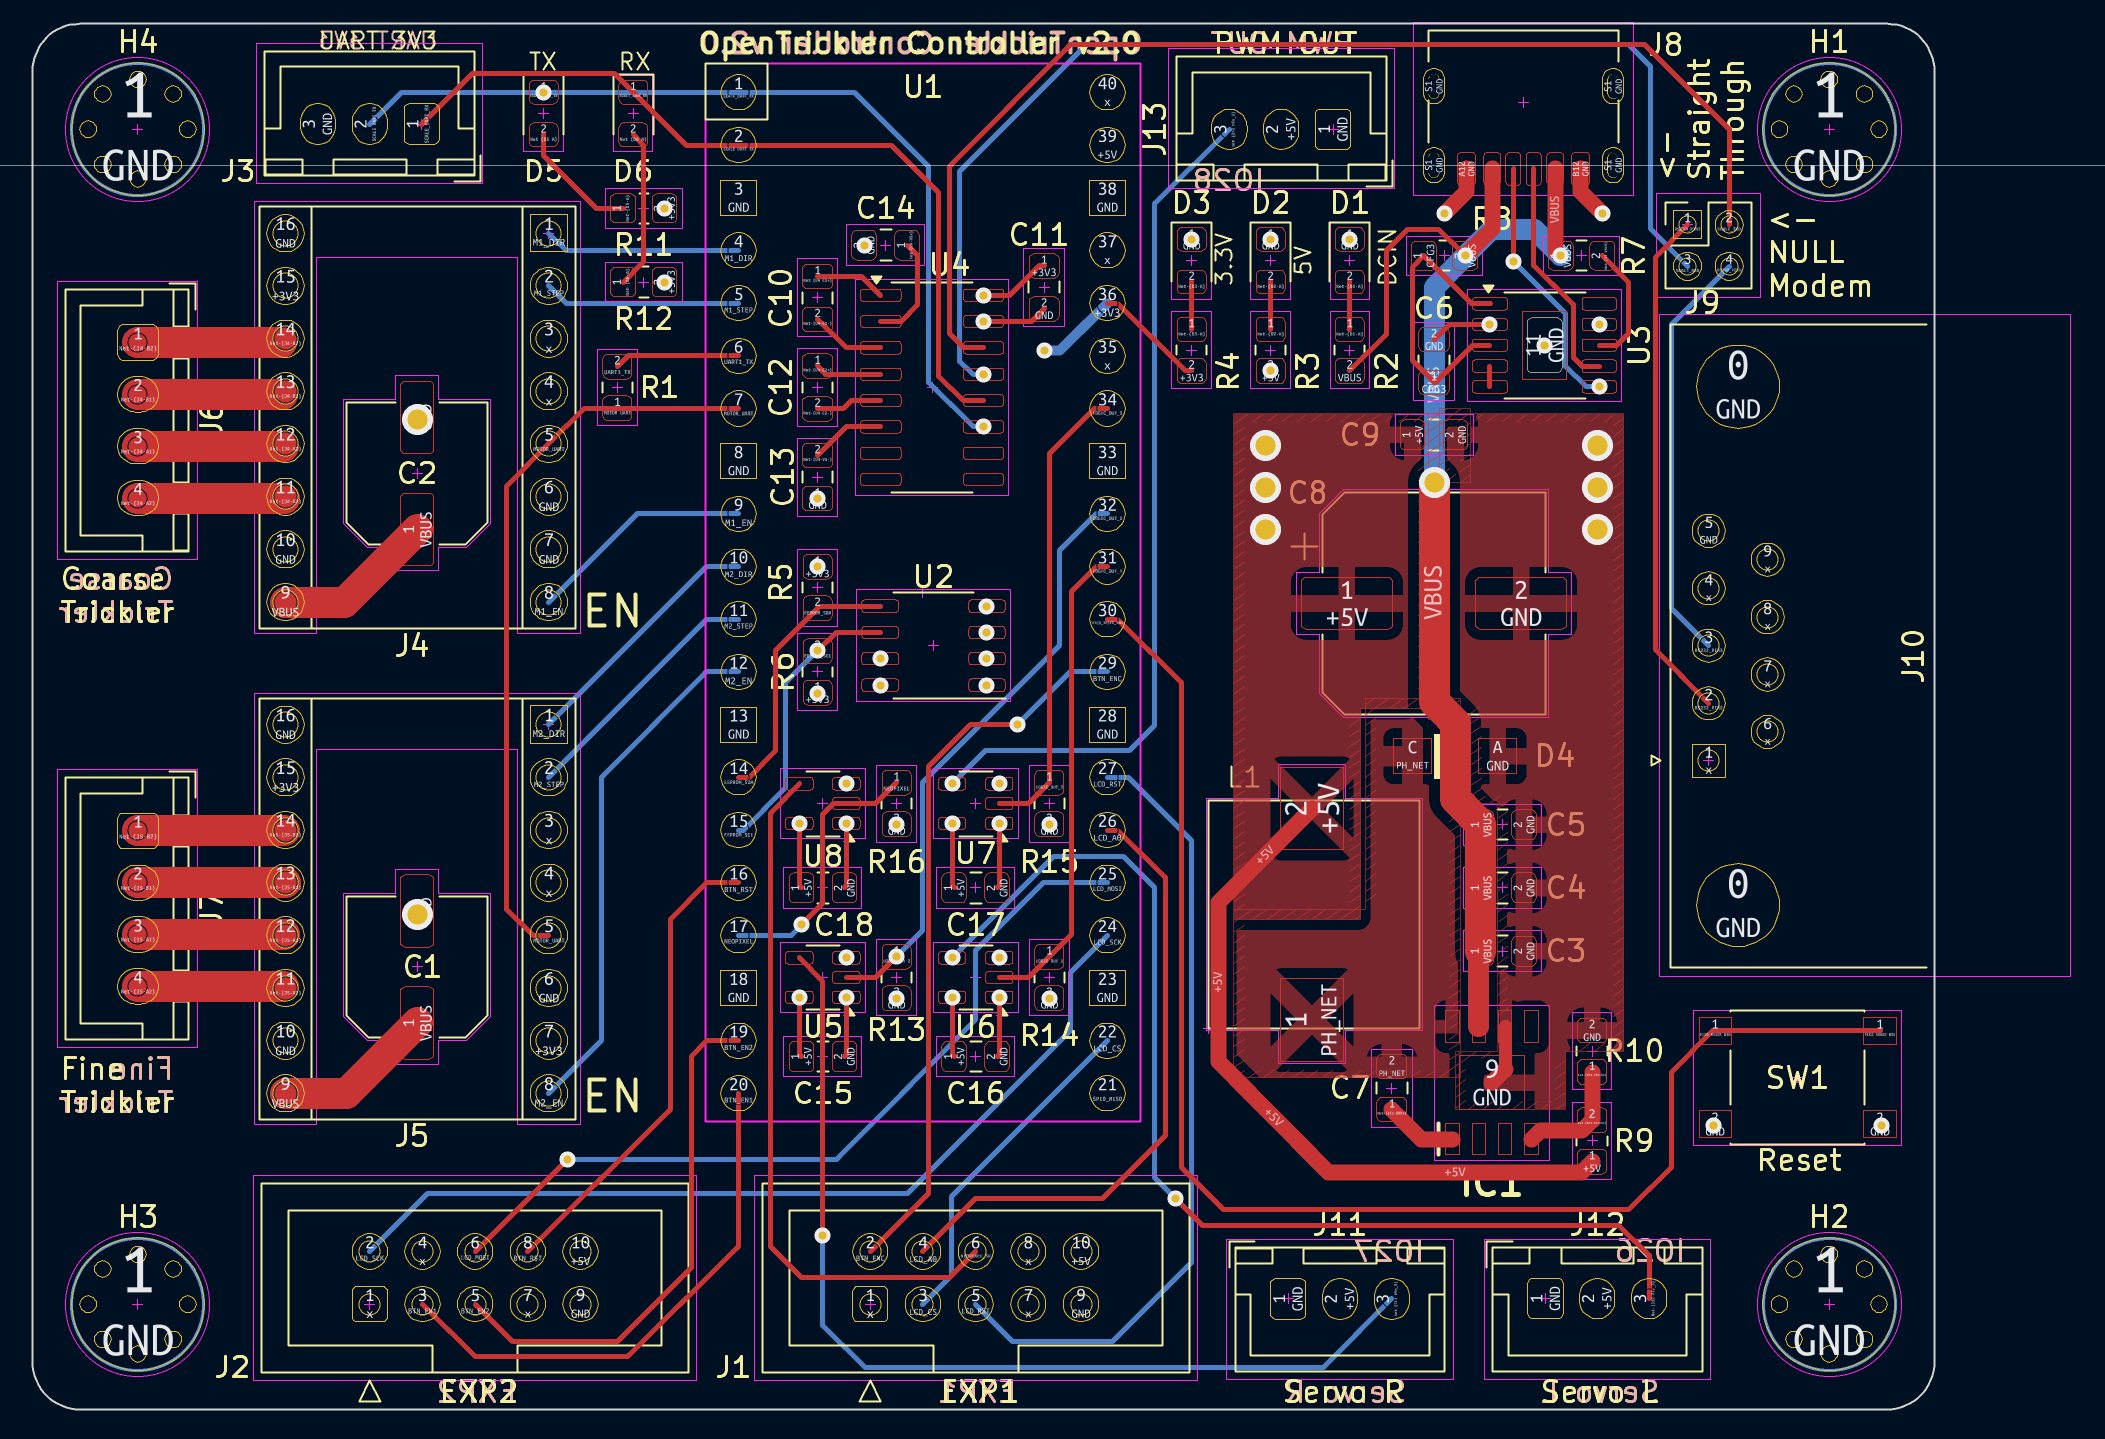
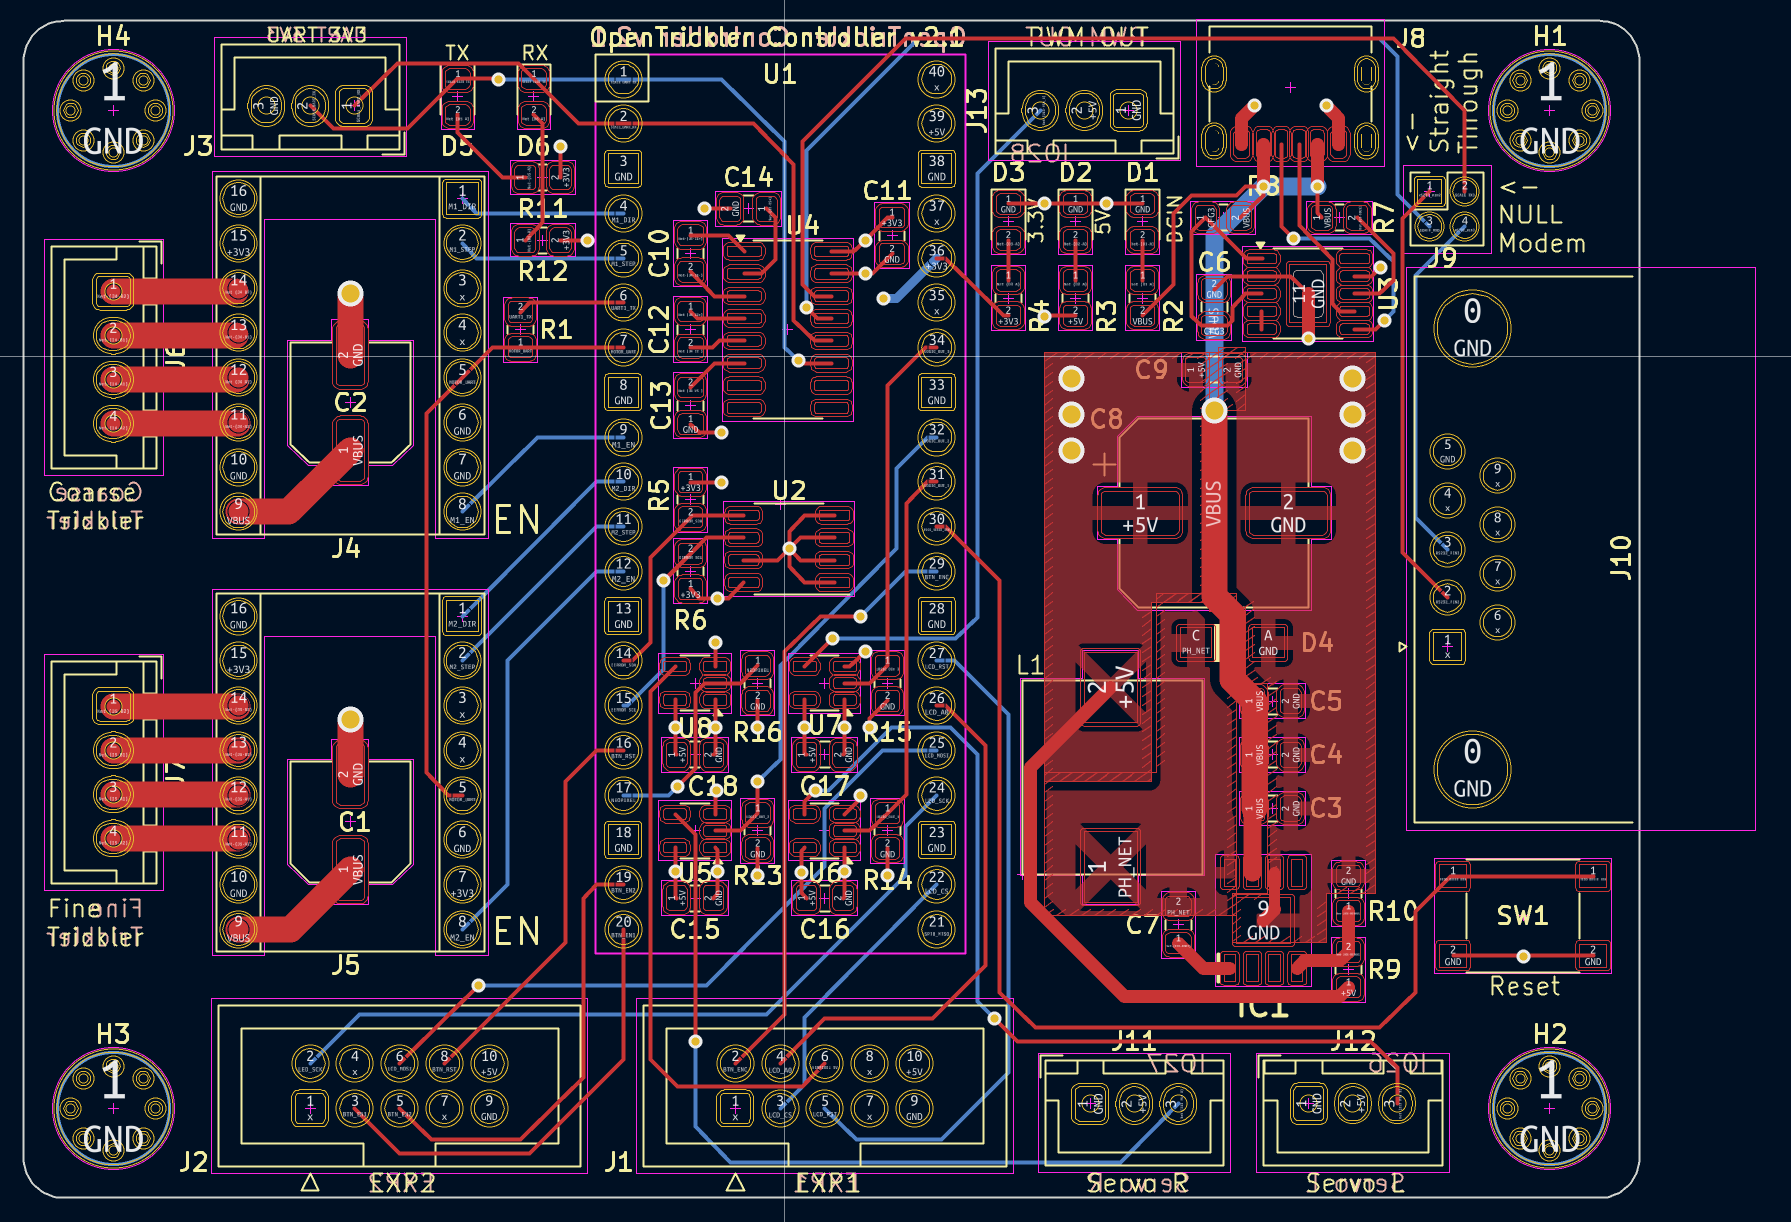
Update readme

Changed region(s): [[0.0, 0.0, 0.9213, 0.9951]]

diff --git a/README.md b/README.md
@@ -36,7 +36,7 @@ The board is designed to be manufactured with 4 layer PCB. Traces are placed at 
 
 The board is designed with hand soldering in mind. The board can also be manufactured by SMT. 
 
-![assembly](resources/assembly.jpg)
+![smt_assembly](resources/smt_assembly.png)
 
 BOM and gerber files are provided under [production](motor_expansion_board_v2/production) directory. [Instructions](motor_expansion_board_v2/production/README.md) are also provided regarding the PCB contract manufactoring with JLCPCB. 
 
@@ -57,6 +57,7 @@ There are several components on JLCPCB that can be out of stock from time to tim
 ## Revisions
 
 * v2.0: Initial release
+* v2.1: Move all vias from pads to minimise SMT failure. 
 
 ## Errata
 
